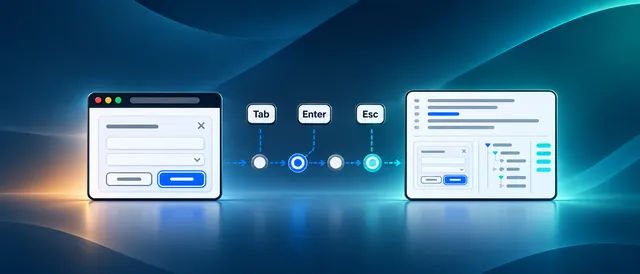
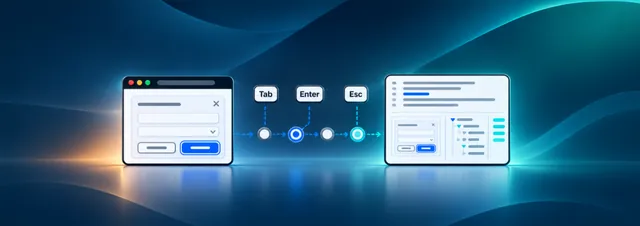
chore: replace A11y Journey Evidence project cover

diff --git a/docs/superpowers/evidence/2026-11-04-add-a11y-journey-evidence-project/verification.md b/docs/superpowers/evidence/2026-11-04-add-a11y-journey-evidence-project/verification.md
@@ -18,11 +18,11 @@ Authoritative documentation, released README, GitHub release and npm registry we
 
 ## Artwork
 
[1 lines of base64/hex data omitted]
+On 2026-11-05, the user replaced the initially supplied illustration with `/Users/davide/Downloads/Firefly.png` and explicitly instructed that its proportions and extra side margins be preserved so the central subject remains visible in the project cards. This is a replacement execution input within the already approved artwork scope; the shared-metadata scope amendment remains unapproved.
 
-Its wide composition already matched the existing treatment, so no replacement generation or destructive composition change was needed. The untouched original is retained in the ignored source backup, separately from the compression backup. The primary cover is 1000 × 428 pixels, 116,988 bytes. All ten PNG/WebP derivatives decode successfully at widths 144, 200, 640, 800 and 1000. The source Downloads file is unchanged.
[1 lines of base64/hex data omitted]
 
-The compressor processed one new image and skipped eight already-backed-up images. All 95 baseline project-source/artwork file hashes remain unchanged. Desktop and mobile inspection shows the keyboard/focus sequence remains recognizable in the existing crops. The homepage's narrower desktop card crops the edges of the illustrative panels while retaining the keys and focus sequence.
+The previous cover, ten previous derivatives and two previous active backups were removed before copying the new source and regenerating the same filenames. The compressor processed one image and skipped eight other already-backed-up images. All eleven replacement asset hashes differ from their predecessors, and the exported copies exactly match the new assets. All 95 baseline project-source/artwork identities remain unchanged. [Replacement evidence](cover-replacement.json) records the source, dimensions, identities and preservation checks. Desktop and mobile screenshots below are refreshed for this artwork.
 
 ## Commands and observations
 
@@ -38,6 +38,8 @@ The compressor processed one new image and skipped eight already-backed-up image
 | Export browser verification                                                                                                                                                                                                                                                                                                                         | 0    | 24 views, both-language navigation flows, no page errors or failed image responses               |
 
 Full command logs and temporary QA scripts/runtime remain in this plan's ignored execution workspace. The browser runtime was isolated Playwright 1.64.1 with installed Chrome; repository dependency files were unchanged.
+
+The image replacement reran compression, the same focused command (17 suites / 304 tests), the full suite (86 suites / 1,406 tests), production build, actual-output inspection and the complete 24-view export browser matrix with both-language navigation flows. Tests, build and browser checks passed. Production inspection still records only the previously identified `CreativeWork.url` failure; all eleven exported replacement assets match their source files. Refreshed desktop homepage, mobile listing and Italian dark mobile detail screenshots were visually inspected: the keyboard/focus sequence remains visible through the existing component crops, with the full-width supplied margins retained in every underlying asset. No component presentation was changed.
 
 The build retains existing warnings about obsolete Next configuration, custom headers with static export, deprecated `punycode`, seven undeclared blog `topic_key` fields, and optional `@emotion/is-prop-valid` resolution. These did not prevent the configured build from passing. No unrelated remediation was performed.
 
